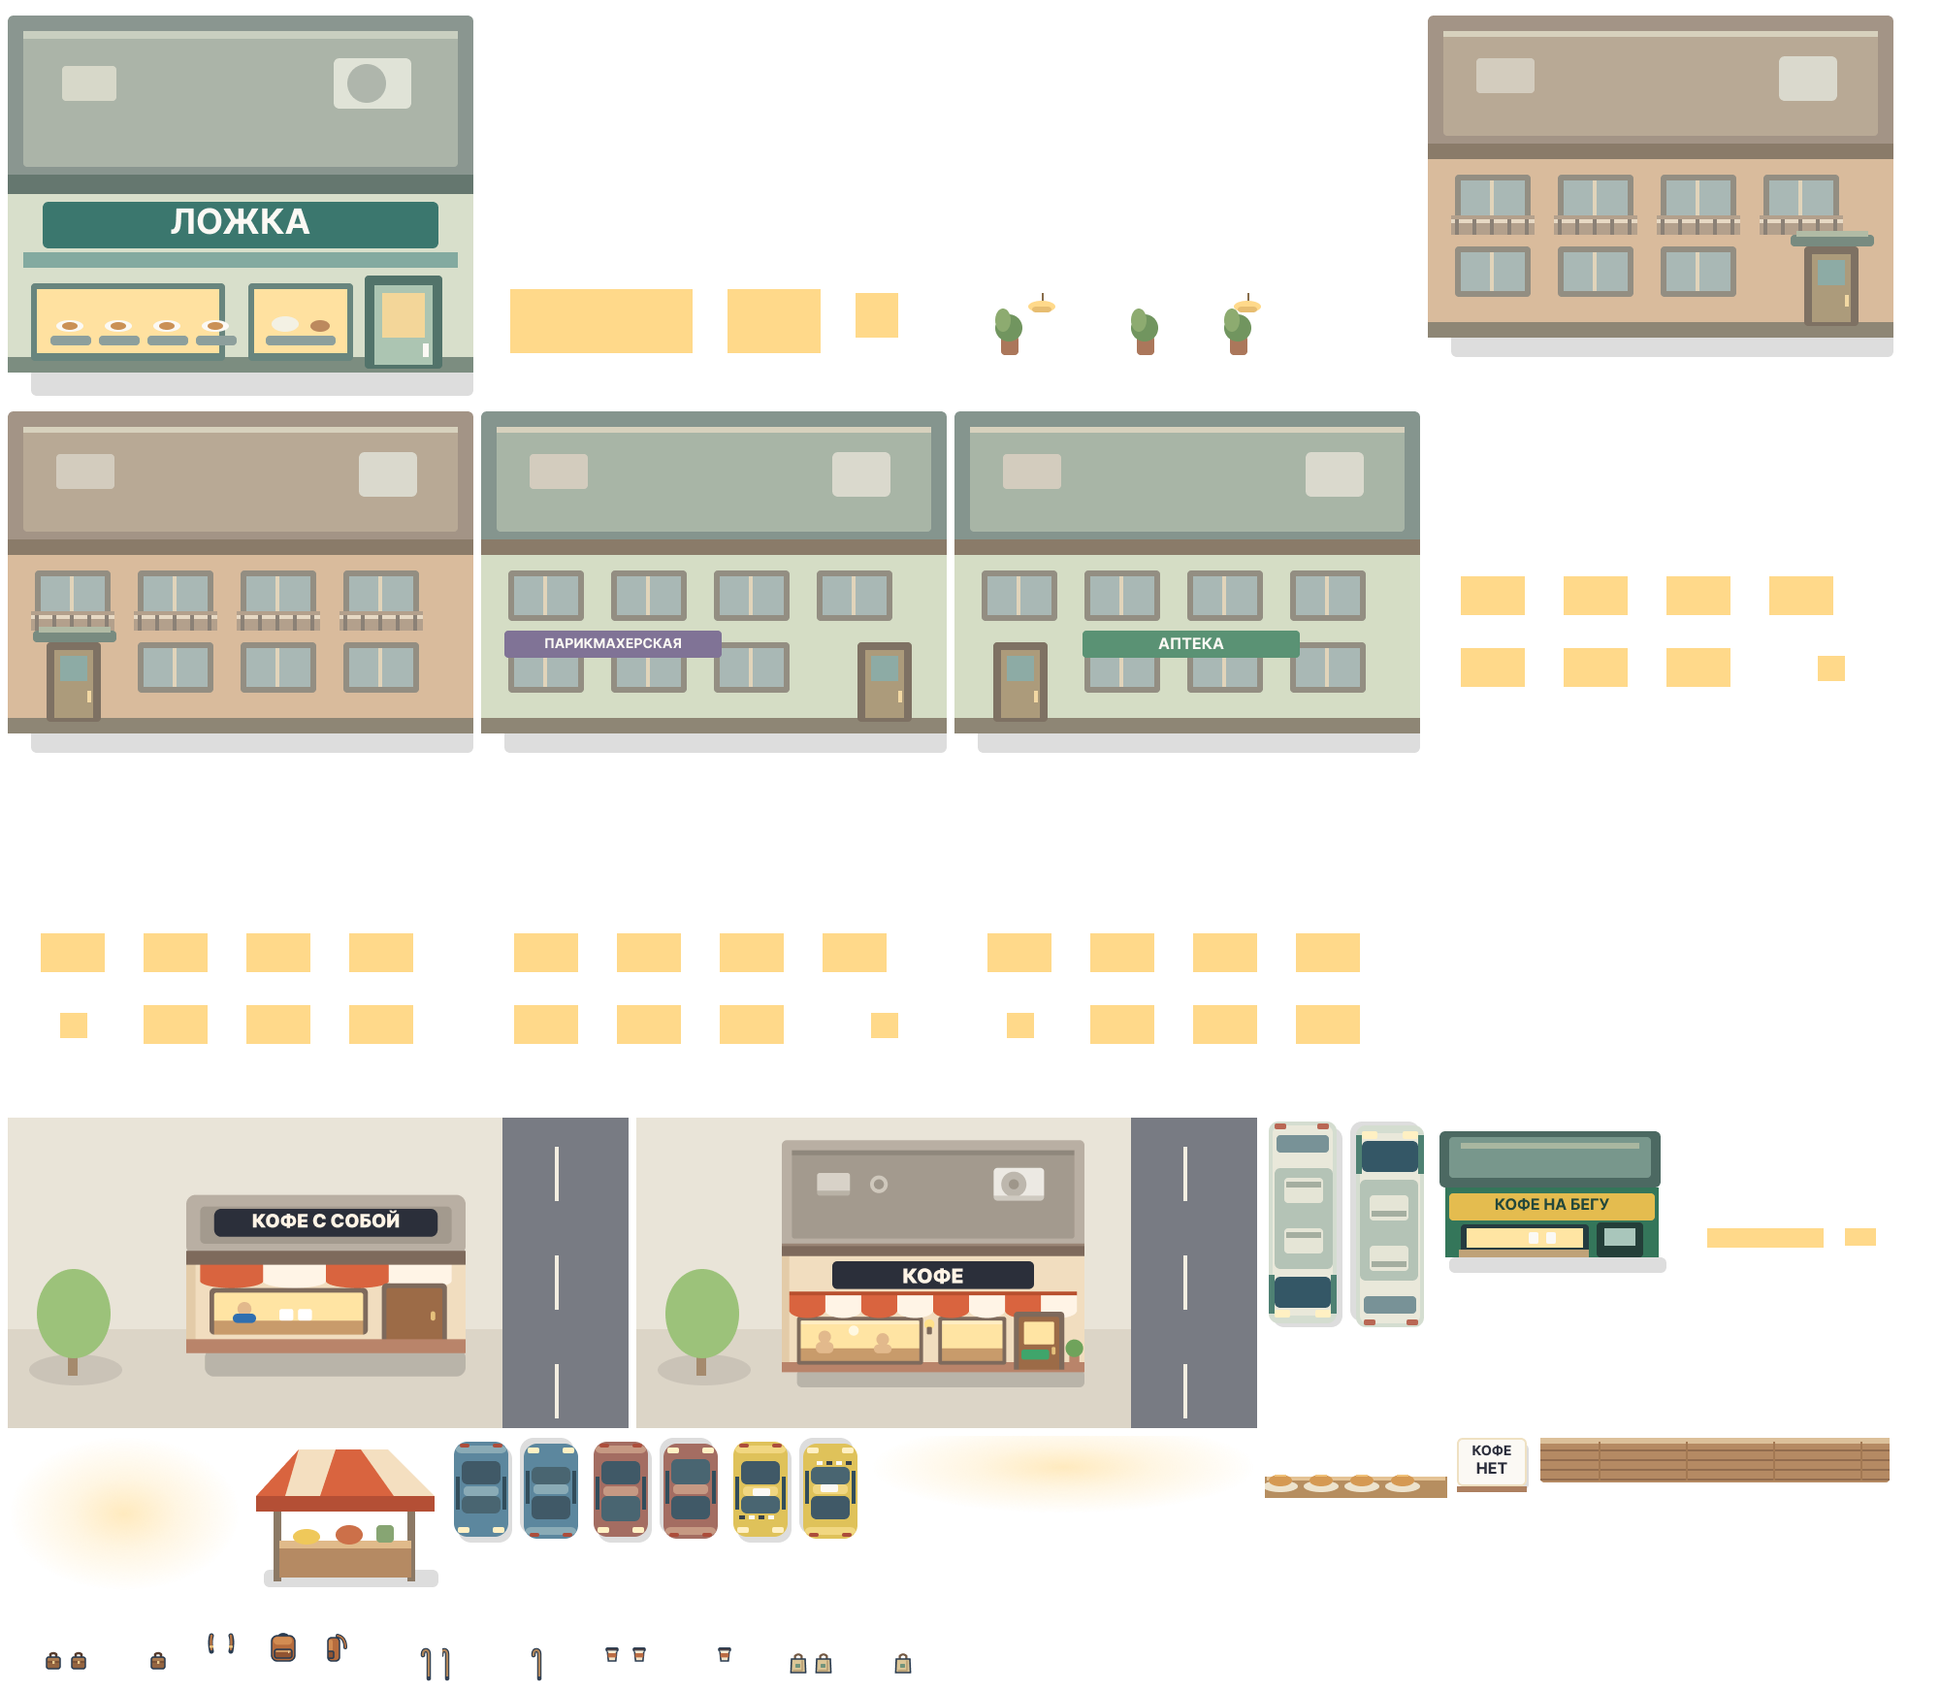
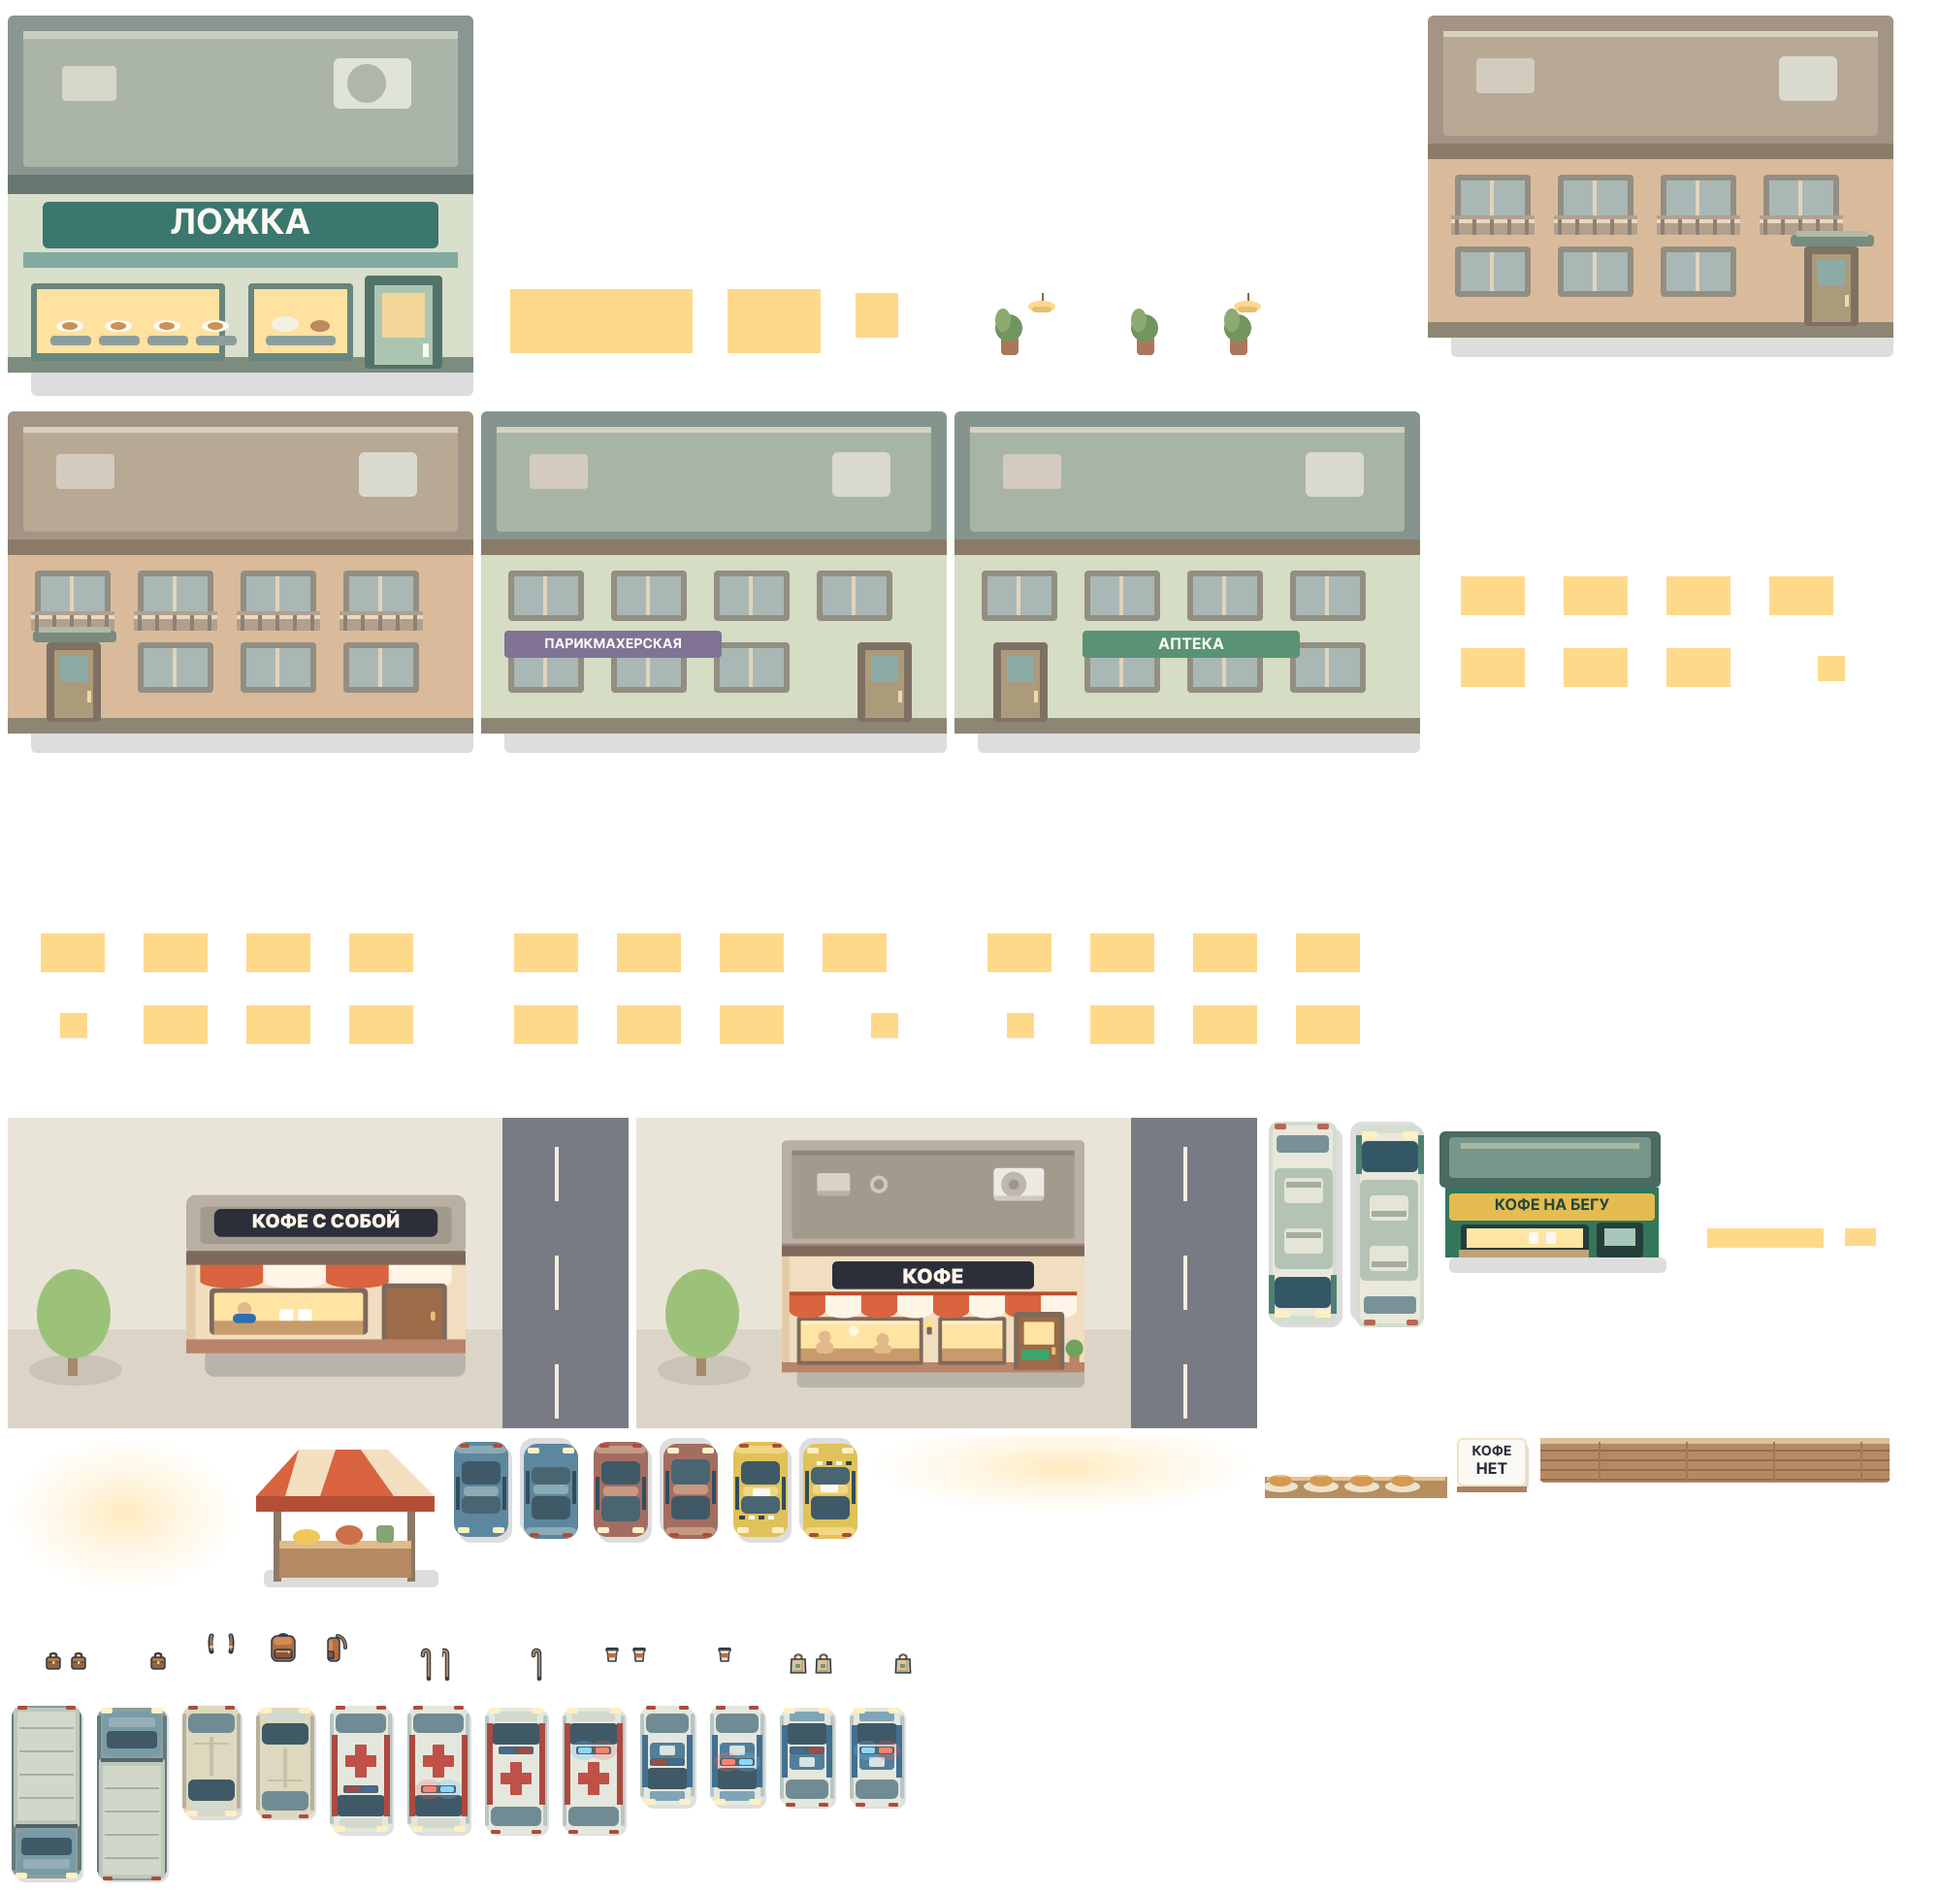
Грузовик, микроавтобус, скорая и полиция на Кленовой
Кадры down/up (скорая и полиция — с мигалкой -flash) добавлены в атлас extra.
Трафик выбирает вид по весам: легковые чаще всего, грузовики ночью вдвое чаще,
скорая и полиция редкие, едут быстрее и мигают раз в 250 мс.

Claude-Session: https://claude.ai/code/session_01DHEiVcyPj9Qv6m6TjqeSZK

diff --git a/src/game/traffic.ts b/src/game/traffic.ts
@@ -1,4 +1,4 @@
-// Машины и автобус на дороге — декорация: в расчётах игры их нет, на итоги дня они не влияют.
+// Машины, грузовики, микроавтобусы, скорая, полиция и автобус на дороге — декорация: в расчётах игры их нет, на итоги дня они не влияют.
 // Поток зависит от часа (час пик, день, ночь), машины пропускают пешеходов и держат дистанцию.
 // Случайность тут обычная (Math.random): это слой отрисовки, симуляция от неё не зависит.
 import Phaser from 'phaser';
@@ -9,6 +9,19 @@ import { sound } from './sound';
 
 type Lane = 'down' | 'up';
 
+/** Виды транспорта: длина — высота кадра, скорость — пикселей в игровую секунду ×1 */
+type Kind = 'car' | 'van' | 'truck' | 'ambulance' | 'police' | 'bus';
+const KINDS: Record<Exclude<Kind, 'bus'>, { weight: number; len: number; speed: [number, number]; flash?: boolean }> = {
+  car: { weight: 78, len: 56, speed: [150, 200] },
+  van: { weight: 11, len: 64, speed: [140, 175] },
+  truck: { weight: 7, len: 96, speed: [115, 140] },
+  // Скорая и полиция редкие, едут быстрее и мигают
+  ambulance: { weight: 2, len: 72, speed: [210, 240], flash: true },
+  police: { weight: 2, len: 58, speed: [200, 230], flash: true },
+};
+/** Мигалка: смена кадра раз в столько миллисекунд реального времени */
+const FLASH_MS = 250;
+
 interface Vehicle {
   sprite: Phaser.GameObjects.Image;
   lane: Lane;
@@ -16,6 +29,7 @@ interface Vehicle {
   y: number;
   len: number;
   speed: number;
+  kind: Kind;
   bus: boolean;
   /** Сколько ещё стоять на остановке, секунд */
   wait: number;
@@ -47,7 +61,7 @@ export class Traffic {
     for (const lane of ['down', 'up'] as Lane[]) {
       this.timers[lane] -= dt;
       if (this.timers[lane] <= 0) {
-        this.spawn(lane, false);
+        this.spawn(lane, pickKind(h));
         this.timers[lane] = interval(h) * (0.6 + Math.random() * 0.8);
       }
     }
@@ -55,10 +69,17 @@ export class Traffic {
     const sinceBus = (minute - this.lastBusMinute + 1440) % 1440;
     if (h >= 6 && h < 23 && sinceBus >= BUS.everyMinutes) {
       this.lastBusMinute = minute;
-      this.spawn('up', true);
+      this.spawn('up', 'bus');
     }
 
-    for (const v of this.cars) this.move(v, dt);
+    const flashOn = Math.floor(this.scene.time.now / FLASH_MS) % 2 === 1;
+    for (const v of this.cars) {
+      this.move(v, dt);
+      if (v.kind === 'ambulance' || v.kind === 'police') {
+        const frame = `${v.kind}-${v.lane}${flashOn ? '-flash' : ''}`;
+        if (v.sprite.frame.name !== frame) v.sprite.setFrame(frame);
+      }
+    }
     this.cars = this.cars.filter((v) => {
       const gone = v.lane === 'down' ? v.y - v.len / 2 > ROAD.bottom : v.y + v.len / 2 < TOP;
       if (gone) v.sprite.destroy();
@@ -66,12 +87,17 @@ export class Traffic {
     });
   }
 
-  private spawn(lane: Lane, bus: boolean): void {
+  /** Выпустить машину. Публичный — чтобы в отладке можно было вызвать скорую: scene.traffic.spawn('down', 'ambulance') */
+  spawn(lane: Lane, kind: Kind): void {
+    const bus = kind === 'bus';
+    const spec = bus ? null : KINDS[kind];
+    const len = bus ? BUS.len : spec!.len;
+    // Машина выезжает из-под перехода у метро или из-за поворота у сквера
+    const startY = lane === 'down' ? TOP + 8 - len / 2 : ROAD.bottom - 8 + len / 2;
     // Не плодим машины друг в друге у края
-    const startY = lane === 'down' ? TOP - 20 : ROAD.bottom + 20;
-    if (this.cars.some((v) => v.lane === lane && Math.abs(v.y - startY) < 90)) return;
-    const frame = bus ? `bus-${lane}` : `${CARS[Math.floor(Math.random() * CARS.length)]}-${lane}`;
-    if (!bus) sound.play('sfx-car-pass', 0.3);
+    if (this.cars.some((v) => v.lane === lane && Math.abs(v.y - startY) < (v.len + len) / 2 + 30)) return;
+    const frame = kind === 'car' ? `${CARS[Math.floor(Math.random() * CARS.length)]}-${lane}` : `${kind}-${lane}`;
+    if (!bus) sound.play('sfx-car-pass', kind === 'truck' ? 0.45 : 0.3);
     const sprite = this.scene.add
       .image(LANE_X[lane], startY, textureOf(frame), frame)
       .setScale(1 / ART_SCALE)
@@ -80,8 +106,9 @@ export class Traffic {
       sprite,
       lane,
       y: startY,
-      len: bus ? BUS.len : 56,
-      speed: bus ? 110 : 150 + Math.random() * 50,
+      len,
+      speed: bus ? 110 : spec!.speed[0] + Math.random() * (spec!.speed[1] - spec!.speed[0]),
+      kind,
       bus,
       wait: bus ? BUS.waitSeconds : 0,
       stopped: false,
@@ -126,6 +153,20 @@ export class Traffic {
     const alpha = Phaser.Math.Clamp(Math.min(toEnd, toTop + 20) / FADE + 0.4, 0, 1);
     v.sprite.setPosition(LANE_X[v.lane], v.y).setDepth(v.y + v.len / 2).setAlpha(alpha);
   }
+}
+
+/** Какую машину выпустить: ночью грузовиков больше (развоз), микроавтобусов меньше */
+function pickKind(h: number): Exclude<Kind, 'bus'> {
+  const night = h < 6 || h >= 23;
+  const weights = Object.entries(KINDS).map(([k, v]) => {
+    let w = v.weight;
+    if (night && k === 'truck') w *= 2;
+    if (night && k === 'van') w *= 0.5;
+    return [k as Exclude<Kind, 'bus'>, w] as const;
+  });
+  let r = Math.random() * weights.reduce((sum, [, w]) => sum + w, 0);
+  for (const [k, w] of weights) if ((r -= w) < 0) return k;
+  return 'car';
 }
 
 /** Средний интервал между машинами в полосе, секунды игрового времени ×1 */

diff --git a/src/game/atlas.ts b/src/game/atlas.ts
@@ -64,6 +64,18 @@ export const ATLASES: Record<string, { url: string; frames: Frames }> = {
       'prop-cafe-terrace': [794, 740, 180, 24],
       'prop-festival-tent': [128, 740, 100, 80],
       'prop-sign-no-coffee': [750, 740, 40, 30],
+      'truck-down': [4, 876, 40, 96],
+      'truck-up': [48, 876, 40, 96],
+      'van-down': [92, 876, 34, 64],
+      'van-up': [130, 876, 34, 64],
+      'ambulance-down': [168, 876, 36, 72],
+      'ambulance-down-flash': [208, 876, 36, 72],
+      'ambulance-up': [248, 876, 36, 72],
+      'ambulance-up-flash': [288, 876, 36, 72],
+      'police-down': [328, 876, 32, 58],
+      'police-down-flash': [364, 876, 32, 58],
+      'police-up': [400, 876, 32, 58],
+      'police-up-flash': [436, 876, 32, 58],
     },
   },
   ground: {

diff --git a/src/game/StreetScene.ts b/src/game/StreetScene.ts
@@ -150,7 +150,7 @@ export class StreetScene extends Phaser.Scene {
   /** Свет ночью: пятна под фонарями и от витрин */
   private pools: Phaser.GameObjects.Image[] = [];
   private spills: { place: Place; image: Phaser.GameObjects.Image }[] = [];
-  private traffic!: Traffic;
+  traffic!: Traffic;
   private windowLights: { place: Place; image: Phaser.GameObjects.Image }[] = [];
   private walkers: Walker[] = [];
   private guestSpots: { r: Resident; x: number; y: number }[] = [];

diff --git a/scripts/README.md b/scripts/README.md
@@ -15,7 +15,7 @@
 
 ## Второй атлас `extra`
 
-Новые ассеты (конкуренты, дома c/d, машины, автобус, свет, накладки улучшений, событий и карточки помещений)
+Новые ассеты (конкуренты, дома c/d, машины, грузовик, микроавтобус, скорая, полиция, автобус, свет, накладки улучшений, событий и карточки помещений)
 собраны в рамке `atlas-extra` на странице «Предметы». Рамка уже в 2× (экземпляры увеличены вдвое), поэтому
 снимок делается в масштабе 1 — на белом и на чёрном фоне, дальше `matte.py` → `src/game/art/extra.png`.
 Кадры — в `ATLASES.extra` в `src/game/atlas.ts` (координаты 1×). Картинки карточек `card-kiosk`/`card-cafe`
